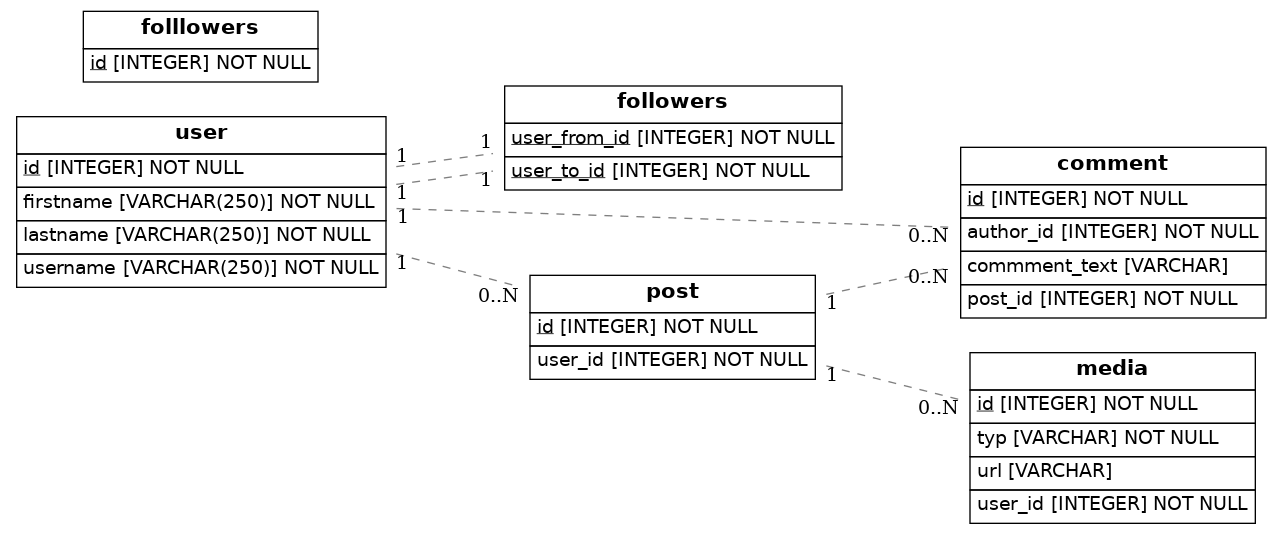
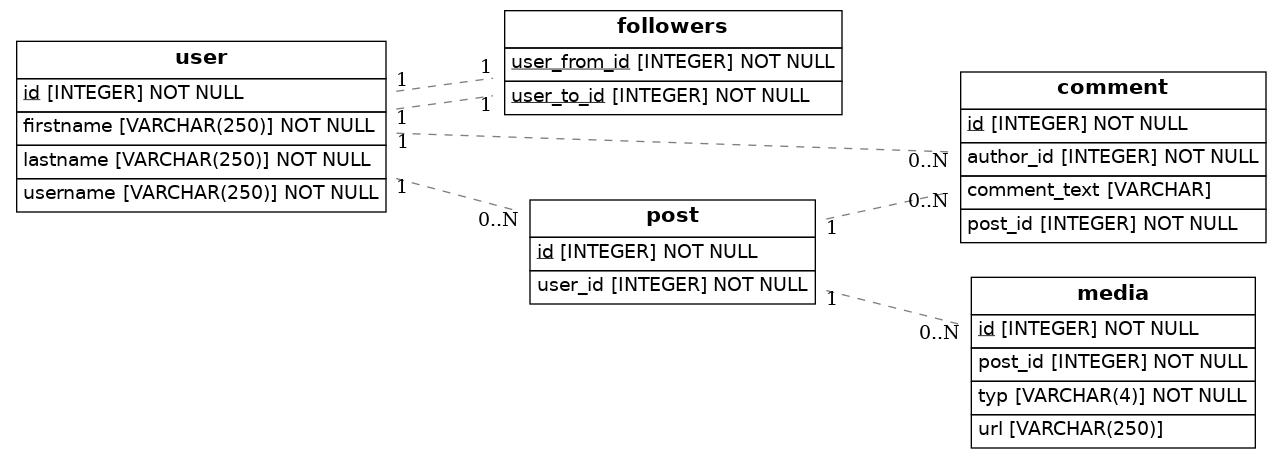
final

diff --git a/src/models.py b/src/models.py
@@ -1,7 +1,7 @@
 import os
 import sys
 from sqlalchemy import Column, ForeignKey, Integer, String, Table, Enum
-from sqlalchemy.orm import relationship, declarative_base
+from sqlalchemy.orm import relationship, declarative_base, backref
 from sqlalchemy import create_engine
 from eralchemy2 import render_er
 # para pract.
@@ -27,27 +27,17 @@ followers = Table('followers',
     Column('user_from_id', Integer, ForeignKey('user.id'), primary_key=True),
     Column('user_to_id', Integer, ForeignKey('user.id'), primary_key=True)
 )
-class Follower(Base):
-    __tablename__ = 'folllowers'
-    # Here we define columns for the table person
-    # Notice that each column is also a normal Python instance attribute.
-    id = Column(Integer, primary_key=True)
-
-
-#commet 
-# class Address(db.Model):
-    # id = db.Column(db.Integer, primary_key=True)
-    # email = db.Column(db.String(120), nullable=False)
-    # person_id = db.Column(db.Integer, db.ForeignKey('person.id'),
-    #     nullable=False)
-
-
+# class Follower(Base):
+#     __tablename__ = 'follower'
+#     # Here we define columns for the table person
+#     # Notice that each column is also a normal Python instance attribute.
+#     id = Column(Integer, primary_key=True)
 class Comment(Base):
     __tablename__ = 'comment'
     # Here we define columns for the table person
     # Notice that each column is also a normal Python instance attribute.
     id = Column(Integer, primary_key=True)
-    commment_text = Column(String)
+    comment_text = Column(String)
     #            entero       | de donde viene el id foraneo |
     author_id = Column(Integer, ForeignKey('user.id'), nullable=False)
     post_id = Column(Integer, ForeignKey('post.id'), nullable=False)
@@ -58,8 +48,8 @@ class Post(Base):
     # Notice that each column is also a normal Python instance attribute.
     id = Column(Integer, primary_key=True)
     user_id = Column(Integer, ForeignKey('user.id'), nullable=False)
-    post = relationship('Comment', backref='post', lazy=True)
-    post = relationship('Media', backref='post', lazy=True)
+    comment = relationship('Comment', backref='post', lazy=True)
+    media = relationship('Media', backref='post', lazy=True)
 
 
 class Media(Base):
@@ -67,9 +57,9 @@ class Media(Base):
     # Here we define columns for the table person
     # Notice that each column is also a normal Python instance attribute.
     id = Column(Integer, primary_key=True)
-    typ = Column(Enum(),nullable=False)
-    url = Column(String)
-    user_id = Column(Integer, ForeignKey('post.id'), nullable=False)
+    typ = Column(Enum("mp3","mp4","jpeg","png"),nullable=False)
+    url = Column(String(250))
+    post_id = Column(Integer, ForeignKey('post.id'), nullable=False)
 
 
 # class Person(db.Model):
@@ -93,10 +83,11 @@ class User(Base):
     lastname = Column(String(250), nullable=False)
     # relationship se coloca en la tabla donde esta el id principal(funcion que relaciona tablas)
     # name coherente      |nameClase donde esata la clave foranea| nombre de la tabla actual
-    comment = relationship('Commet', backref='user', lazy=True)
-    post = relationship('Post', backref='user', lazy=True)
-
-
+    comments = relationship('Comment', backref='user', lazy=True)
+    user_post = relationship('Post', backref='user', lazy=True)
+    # relacion de muchos a muchos
+    following = relationship('Follower', secondary=followers, lazy='subquery',
+        backref=backref('user', lazy=True))
     def to_dict(self):
         return {}
 
